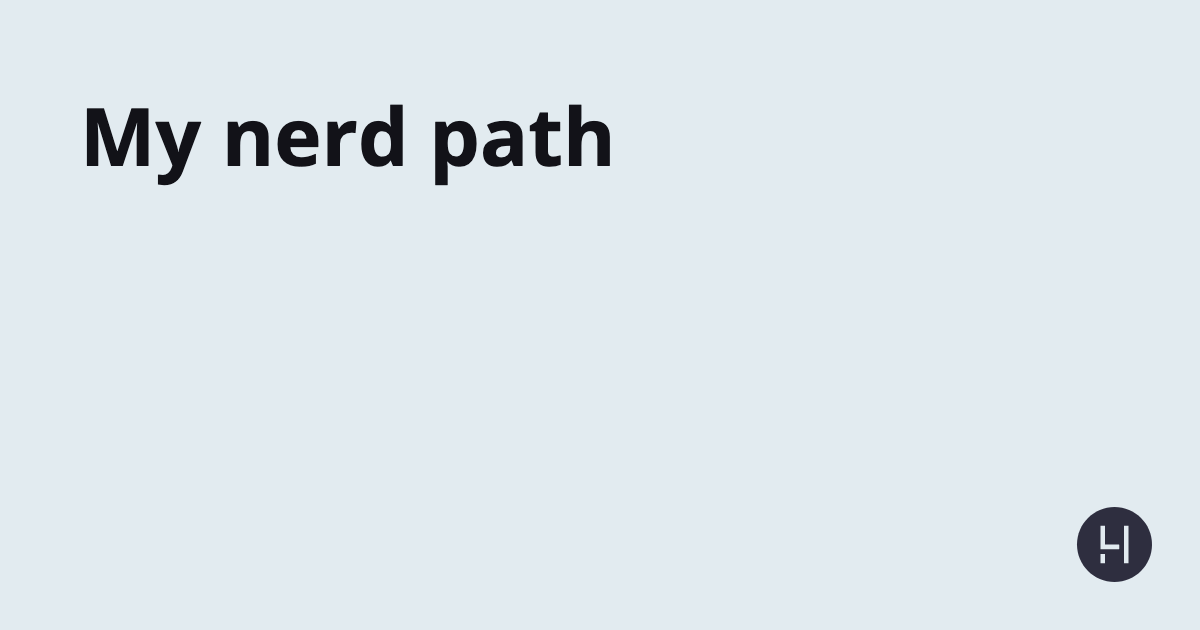
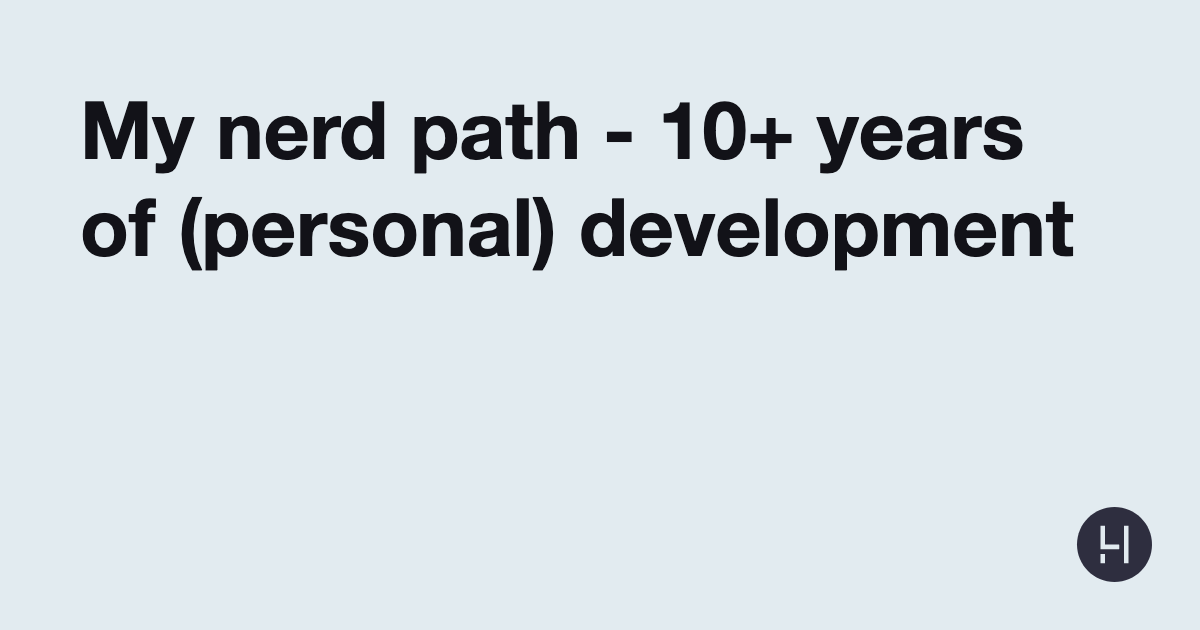
feat(post): fine tuning

Changed region(s): [[0.0617, 0.1508, 0.8942, 0.4524], [0.555, 0.1508, 0.8633, 0.2714]]

diff --git a/content/posts/my-nerd-path.md b/content/posts/my-nerd-path.md
@@ -1,10 +1,10 @@
 ---
 title: My nerd path - 10+ years of (personal) development
 description: This post shows how I acquired my technical knowledge and illustrates where my interests lie and how they have developed over almost 15 years.
-publishedAt: 2999-12-09
+publishedAt: 2021-12-18
 categories:
     - Personal
-tldr: The web showed me how to code and after almost 15 years this seems to be over.
+tldr: The web showed me how to code and after almost 15 years this time is over. I'm still in the tech world, but focusing on entrepreneurship and freelancing.
 tweet: TBD
 ---
 
@@ -109,14 +109,16 @@ This section is quite short as I was heavily focused on my work during this two 
 
 ## 7. Ending my nerd path
 
-I first wanted to call this chapter __"To be continued"__ and add new chapters to my nerd path. But I think it won't be continued. I don't want to make my living as a developer. I love technology! I'll develop in my free time, I'll learn new technologies, automate stuff I could do way quicker manually, be the number one contact for my family, friends, and colleagues to ask technical questions. For me, it's some kind of relaxation if I can develop after a stressful day. 
+I first wanted to call this chapter __"To be continued"__ and add new chapters to my nerd path. But I think it won't be continued. I don't want to make my living as a developer. I love technology! I'll develop in my free time, I'll learn new technologies, automate stuff I could do way quicker manually, be the number one contact for my family, friends, and colleagues to ask technical questions. For me, it's some kind of relaxation if I can develop after a stressful day.
 
 However, I have taken a new path. I moved to Copenhagen to start my master's in _[Technology Entrepreneurship](https://www.dtu.dk/english/education/msc/programmes/technology-entrepreneurship)_ [@DTU](https://www.dtu.dk/english). I wanted to risk something, go out of my comfort zone, try something new, get to know inspiring people from all over the world, and just calm down a bit after my time at the Corona-Warn-App. However, I want to work on more projects that are meaningful form me. I want to find something with impact. It might sound cheesy, but I want to change something in the world, tackle the big challenges, and leave a better world. 
 
-Right now I'm already one, and a half months into this program, and I love it. It's just an inspiring environment where everything seems to be possible. I already got my first megalomaniac idea. More on that later when I make that dream come true.
+Right now I'm already three, and a half months into this program, and I love it. It's just an inspiring environment where everything seems to be possible. I already got my first megalomaniac idea. More on that later when I make that dream come true.
+
+Along the way, I also started working as a freelancer. More about that [here](/services).
 
 <small>Wood picture: https://unsplash.com/photos/q2Fyzn-KJOQ</small>
 
 <base-thanks>
-    Niklas & Leo
+    Thank's to Niklas and Leo for proofreading.
 </base-thanks>
